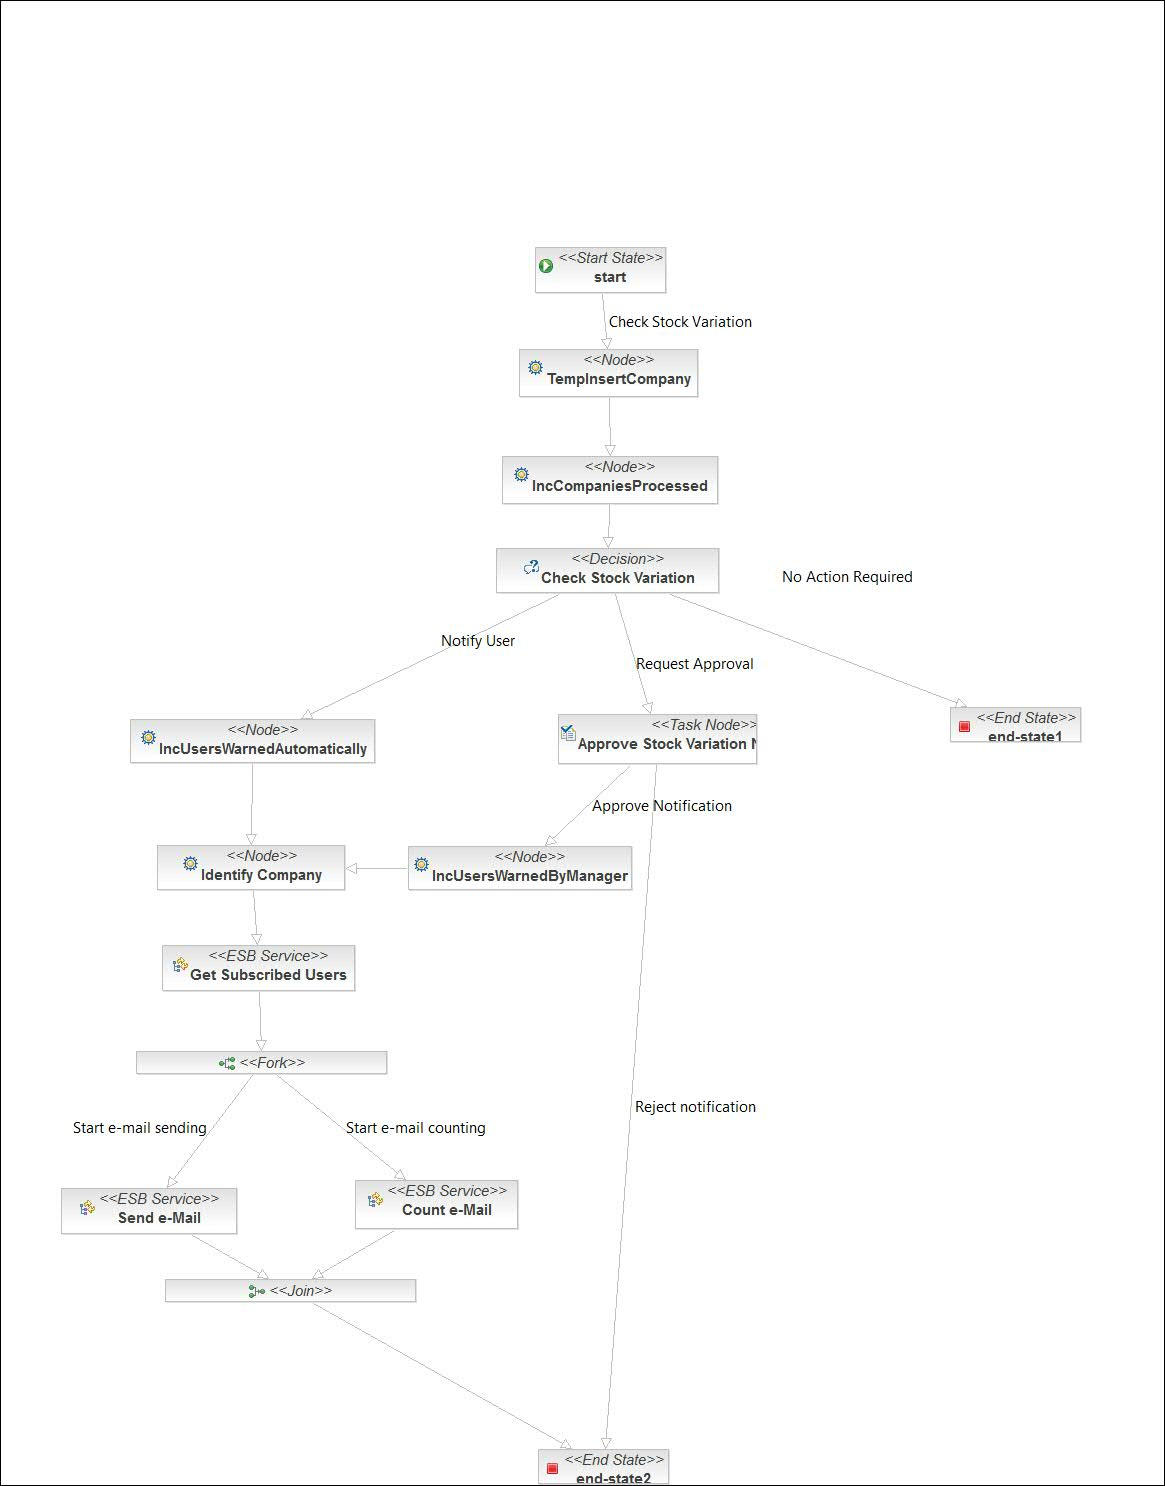
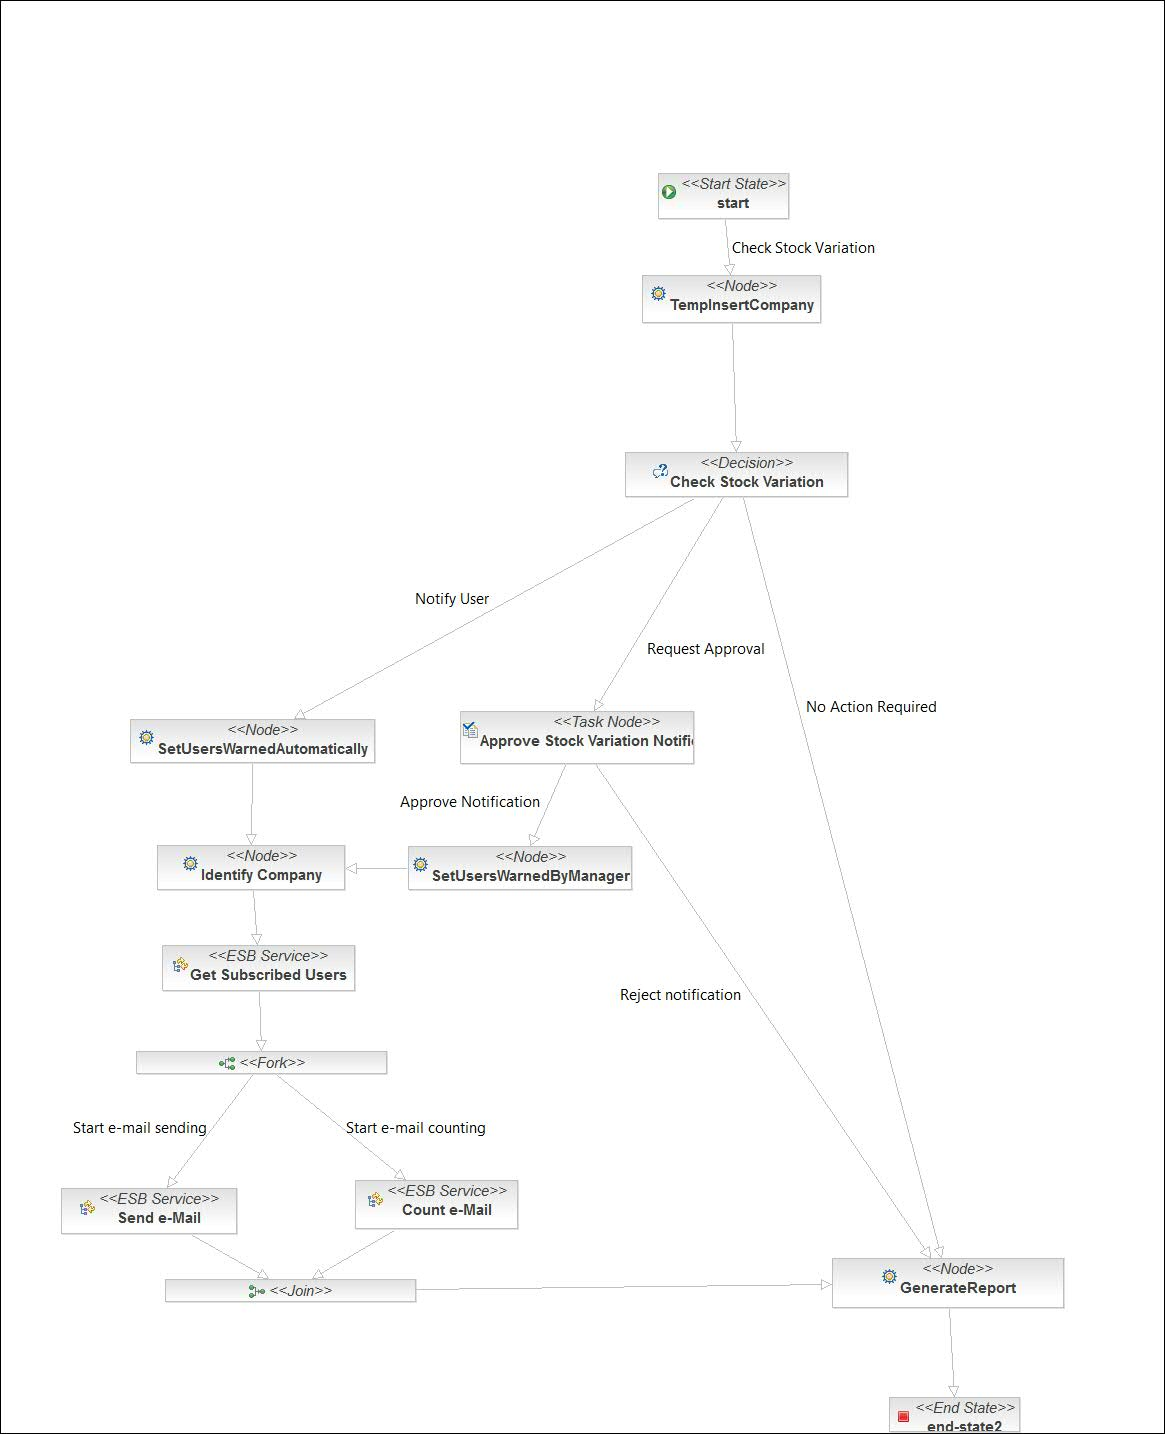
Change: Updated BPM statemachine Add: Included new function in web service and cleaned interface up

diff --git a/Project3/EJBServer/ejbModule/eai/msejdf/webServices/WebServices.java b/Project3/EJBServer/ejbModule/eai/msejdf/webServices/WebServices.java
@@ -105,10 +105,11 @@ public class WebServices implements IWebServices {
 	 * @throws ConfigurationException
 	 */
 	@Override
-	public void incrementUserEmailCount(@WebParam(name = "userId") Long userId)
+	@WebMethod
+	public void incrementUserEmailCountFromId(@WebParam(name = "userId") Long userId)
 			throws ConfigurationException {
 		if (logger.isDebugEnabled()) {
-			logger.debug("setBankTeller(Long, Long) - start"); //$NON-NLS-1$
+			logger.debug("incrementUserEmailCountFromId(List<eai.msejdf.esb.User>) - start"); //$NON-NLS-1$
 		}
 
 		if ((null == userId)) {
@@ -123,10 +124,38 @@ public class WebServices implements IWebServices {
 		entityManager.persist(user);
 
 		if (logger.isDebugEnabled()) {
-			logger.debug("setBankTeller(Long, Long) - end"); //$NON-NLS-1$
+			logger.debug("incrementUserEmailCountFromId(List<eai.msejdf.esb.User>) - end"); //$NON-NLS-1$
 		}
 	}
 
+
+	@Override
+	@WebMethod
+	public void incrementUserEmailCountFromList(@WebParam(name = "userList") List<eai.msejdf.esb.User> userList)
+			throws ConfigurationException {
+		if (logger.isDebugEnabled()) {
+			logger.debug("incrementUserEmailCountFromList(List<eai.msejdf.esb.User>) - start"); //$NON-NLS-1$
+		}
+
+		if ((null == userList)) {
+			throw new InvalidParameterException();
+		}
+
+		for (eai.msejdf.esb.User user : userList)
+		{
+			User dbUser = getUser(user.getUsername());
+	
+			// increments user EmailCount by one
+			dbUser.setEmailCount(dbUser.getEmailCount() + 1);
+	
+			entityManager.persist(dbUser);
+		}
+		
+		if (logger.isDebugEnabled()) {
+			logger.debug("incrementUserEmailCountFromList(List<eai.msejdf.esb.User>) - end"); //$NON-NLS-1$
+		}
+	}
+	
 	// TODO decide if it should use Admin getUserList method instead of
 	// implementing it again
 	/**
@@ -136,11 +165,9 @@ public class WebServices implements IWebServices {
 	 * @return
 	 * @throws ConfigurationException
 	 */
-	@Override
-	@WebMethod(exclude = true)
-	public User getUser(Long userId) throws ConfigurationException {
+	private User getUser(Long userId) throws ConfigurationException {
 		if (logger.isDebugEnabled()) {
-			logger.debug("getUser(String) - start"); //$NON-NLS-1$
+			logger.debug("getUser(Long) - start"); //$NON-NLS-1$
 		}
 
 		if (null == userId) {
@@ -167,11 +194,54 @@ public class WebServices implements IWebServices {
 		}
 
 		if (logger.isDebugEnabled()) {
-			logger.debug("getUser(String) - end"); //$NON-NLS-1$
+			logger.debug("getUser(Long) - end"); //$NON-NLS-1$
 		}
 		return user;
 	}
 
+	// TODO decide if it should use Admin getUserList method instead of
+	// implementing it again
+	/**
+	 * Gets the user by user name
+	 * 
+	 * @param userName Name of user
+	 * @return User object 
+	 * @throws ConfigurationException
+	 */
+	private User getUser(String userName) throws ConfigurationException {
+		if (logger.isDebugEnabled()) {
+			logger.debug("getUser(String) - start"); //$NON-NLS-1$
+		}
+
+		if (null == userName) {
+			throw new InvalidParameterException();
+		}
+
+		Query query = entityManager
+				.createQuery("SELECT User FROM User user WHERE user.username=:username");
+		query.setParameter("username", userName);
+
+		@SuppressWarnings("unchecked")
+		List<User> userList = query.getResultList();
+		if (true == userList.isEmpty()) {
+			// The user doesn't seem to exist
+			throw new ConfigurationException(
+					WebServices.EXCEPTION_USER_NOT_FOUND);
+		}
+
+		User user = userList.get(0);
+		BankTeller bankTeller = user.getBankTeller();
+
+		if (null != bankTeller) {
+			bankTeller.getId(); // To overcome Lazzy parameter
+		}
+
+		if (logger.isDebugEnabled()) {
+			logger.debug("getUser(String) - end"); //$NON-NLS-1$
+		}
+		return user;
+	}
+	
 	// TODO decide if it should use Admin getUserList method instead of
 	// implementing it again
 	/**
@@ -181,9 +251,7 @@ public class WebServices implements IWebServices {
 	 * @param sortType
 	 * @return
 	 */
-	@Override
-	@WebMethod(exclude = true)
-	public List<eai.msejdf.esb.User> getUserList(Integer ageThreshold,
+	private List<eai.msejdf.esb.User> getUserList(Integer ageThreshold,
 			UserSort sortType) {
 		if (logger.isDebugEnabled()) {
 			logger.debug("getUserList(Integer, UserSort) - start"); //$NON-NLS-1$
@@ -258,9 +326,7 @@ public class WebServices implements IWebServices {
 	 * @see eai.msejdf.admin.IAdmin#getUserFollowCompanyList(java.lang.Long,
 	 * eai.msejdf.sort.UserSort)
 	 */
-	@Override
-	@WebMethod(exclude = true)
-	public List<eai.msejdf.esb.User> getUsersFollowingCompany(String companyName,
+	private List<eai.msejdf.esb.User> getUsersFollowingCompany(String companyName,
 			UserSort sortType) {
 		if (logger.isDebugEnabled()) {
 			logger.debug("getUserFollowCompanyList(String, int, int) - start"); //$NON-NLS-1$

diff --git a/Project3/EJBServerInterfaces/ejbModule/eai/msejdf/webServices/IWebServices.java b/Project3/EJBServerInterfaces/ejbModule/eai/msejdf/webServices/IWebServices.java
@@ -29,33 +29,23 @@ public interface IWebServices {
 	Integer getUserEmailCount(Long userId) throws ConfigurationException;
 
 	/**
-	 * WebMethod increments the user numbers of sent emails by one
+	 * WebMethod Increments the number of e-mails sent by each user in the list by one
 	 * 
-	 * @param userId
-	 * @return
+	 * @param userId Id of user for which the e-mail count shall be incremented
 	 * @throws ConfigurationException
 	 */
-	void incrementUserEmailCount(Long userId)
+	void incrementUserEmailCountFromId(Long userId)
 			throws ConfigurationException;
-
+	
 	/**
-	 * Gets the user by user id
-	 * @param userId
-	 * @return
+	 * WebMethod Increments the number of e-mails sent by each user in the list by one
+	 * 
+	 * @param userList List of users for which the e-mail count shall be incremented
 	 * @throws ConfigurationException
 	 */
-	User getUser(Long userId) throws ConfigurationException;
-
-	/**
-	 * Gets the user list sorted by user sort type.
-	 * 
-	 * @param ageThreshold
-	 * @param sortType
-	 * @return
-	 */
-	List<eai.msejdf.esb.User> getUserList(Integer ageThreshold, UserSort sortType);
-
-	List<eai.msejdf.esb.User> getUsersFollowingCompany(String companyName, UserSort sortType);
+	void incrementUserEmailCountFromList(List<eai.msejdf.esb.User> userList)
+			throws ConfigurationException;	
+	
 	/**
 	 * WebMethod Gets the user list that follow company id=companyId sorted by user sort type.
 	 * 

diff --git a/Project3/JBPMServices/src/jbpm/eai/msejdf/jbpm/actions/GenerateReport.java b/Project3/JBPMServices/src/jbpm/eai/msejdf/jbpm/actions/GenerateReport.java
@@ -1,0 +1,36 @@
+package eai.msejdf.jbpm.actions;
+
+
+import org.apache.log4j.Logger;
+import org.jbpm.graph.def.ActionHandler;
+import org.jbpm.graph.exe.ExecutionContext;
+
+import eai.msejdf.utils.SOAMessageConstants;
+
+public class GenerateReport implements ActionHandler {
+	/**
+	 * Logger for this class
+	 */
+	private static final Logger logger = Logger.getLogger(CheckStockVariationDecisionHandler.class);
+
+	private static final long serialVersionUID = 1L;
+	
+	public void execute(ExecutionContext context) throws Exception {
+		if (logger.isDebugEnabled())
+		{
+			logger.debug("execute - start"); //$NON-NLS-1$
+		}
+		
+		boolean warnedAuto = (boolean)context.getContextInstance().getVariable(SOAMessageConstants.STATUS_REPORT_USERS_WARNED_AUTOMATICALLY);
+		boolean warnedManager = (boolean)context.getContextInstance().getVariable(SOAMessageConstants.STATUS_REPORT_USERS_WARNED_BY_MANAGER);
+
+		// TODO: Create status object and replace body
+		
+		
+		if (logger.isDebugEnabled())
+		{
+			logger.debug("execute - end"); //$NON-NLS-1$
+		}
+	}
+
+}

diff --git a/Project3/ESBServices/src/eai/msejdf/esb/IncrementUserEmailCount.java b/Project3/ESBServices/src/eai/msejdf/esb/IncrementUserEmailCount.java
@@ -26,16 +26,16 @@ public class IncrementUserEmailCount extends AbstractActionLifecycle {
 	@SuppressWarnings("unchecked")
 	public Message process(Message message) throws Exception {
 		logHeader();
-		String msgBody = (String) message.getBody().get();
+		String userList = (String) message.getBody().get(SOAMessageConstants.ESB_USER_LIST);
 		@SuppressWarnings("rawtypes")
 		HashMap requestMap = new HashMap();
 
 		// add parameters to the web service request map
 		System.out.println("################### IncrementUserEmailCount ######################\n");
-		System.out.println("IncrementUserEmailCount: " + "userId = " + msgBody);
+		System.out.println("IncrementUserEmailCount: " + "userList = " + userList);
 		
 		
-		requestMap.put("incrementUserEmailCount."+ SOAMessageConstants.ESB_USER_ID, msgBody);
+		requestMap.put("incrementUserEmailCountFromList."+ SOAMessageConstants.ESB_USER_LIST, userList);
 
 		message.getBody().add(requestMap);
 		System.out.println("Request map is: " + requestMap.toString());

diff --git a/Project3/JBPMServices/src/jbpm/eai/msejdf/jbpm/actions/SetUsersWarnedAutomatically.java b/Project3/JBPMServices/src/jbpm/eai/msejdf/jbpm/actions/SetUsersWarnedAutomatically.java
@@ -1,0 +1,18 @@
+package eai.msejdf.jbpm.actions;
+
+
+import org.jbpm.graph.def.ActionHandler;
+import org.jbpm.graph.exe.ExecutionContext;
+
+import eai.msejdf.utils.SOAMessageConstants;
+
+public class SetUsersWarnedAutomatically implements ActionHandler {
+
+	private static final long serialVersionUID = 1L;
+	
+	public void execute(ExecutionContext context) throws Exception {
+
+		context.getContextInstance().createVariable(SOAMessageConstants.STATUS_REPORT_USERS_WARNED_AUTOMATICALLY, true);
+	}
+
+}

diff --git a/Project3/JBPMServices/src/jbpm/eai/msejdf/jbpm/actions/SetUsersWarnedByManager.java b/Project3/JBPMServices/src/jbpm/eai/msejdf/jbpm/actions/SetUsersWarnedByManager.java
@@ -1,0 +1,18 @@
+package eai.msejdf.jbpm.actions;
+
+
+import org.jbpm.graph.def.ActionHandler;
+import org.jbpm.graph.exe.ExecutionContext;
+
+import eai.msejdf.utils.SOAMessageConstants;
+
+public class SetUsersWarnedByManager implements ActionHandler {
+
+	private static final long serialVersionUID = 1L;
+	
+	public void execute(ExecutionContext context) throws Exception {
+
+		context.getContextInstance().createVariable(SOAMessageConstants.STATUS_REPORT_USERS_WARNED_BY_MANAGER, true);		
+	}
+
+}
